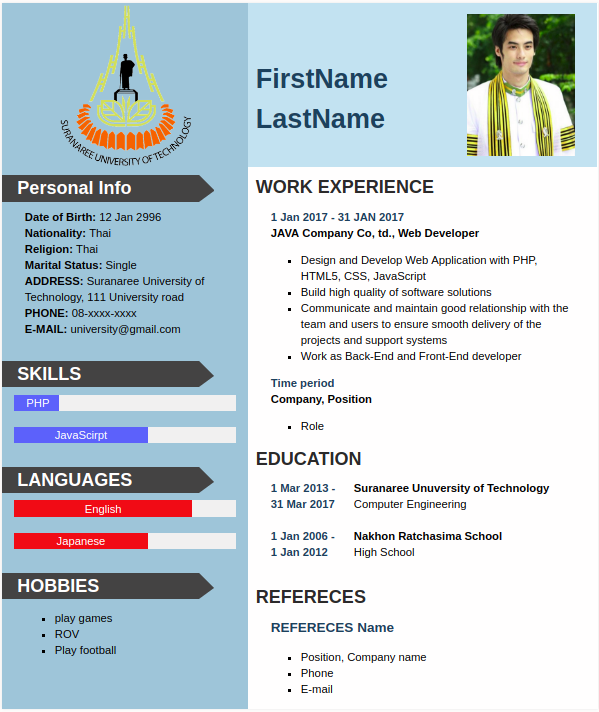
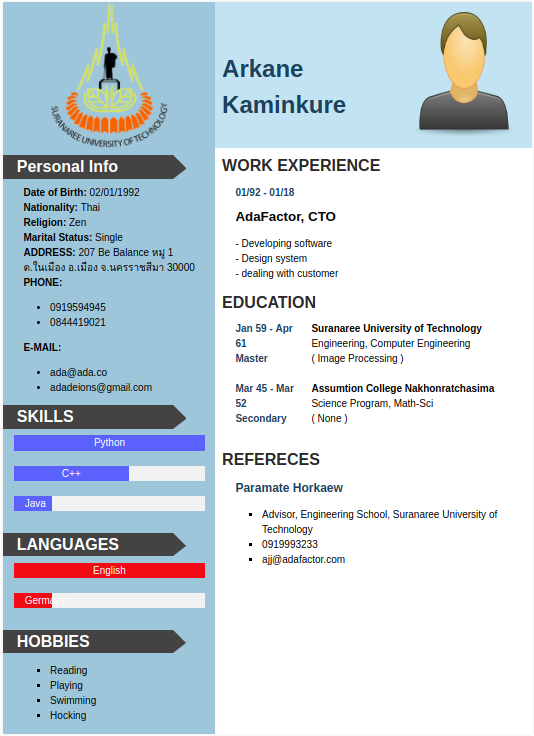
fix css template2 and update view resume

diff --git a/resumeSite/resumeApp/templates/resumeApp/resumeTemplate3.html b/resumeSite/resumeApp/templates/resumeApp/resumeTemplate3.html
@@ -14,7 +14,7 @@
             <div id="bg-left" class="col-left">
                 <div>
                     <img class="img-logo" src="/static/images/sutLogo.png" alt=""><br>
-                    <h3 class="topic-left">Personal Info</h3>
+                    <h2 class="topic-left"><b>Personal Info</b></h2>
                     <div class="content-left">
                         <b>Date of Birth: </b>
                         <label class="info-profile">{{student.birthday}}</label><br>
@@ -26,7 +26,7 @@
                         <label class="info-profile">Single</label><br>
                         <b>ADDRESS: </b>
                         <label class="info-profile">{{student.get_address}}</label><br>
-                        <label class="text-bold">PHONE: </label>
+                        <b>PHONE: </b>
                         <ul class="content">
                             {% for phone in student.phone_no %}
                             <li>{{phone}}</li>
@@ -34,7 +34,7 @@
                             <li>No phone number</li>
                             {% endfor %}
                         </ul>
-                        <label class="text-bold">E-MAIL: </label>
+                        <b>E-MAIL: </b>
                         <ul class="content">
                             {% for e in student.email %}
                             <li>{{e}}</li>
@@ -42,9 +42,9 @@
                             <li>No Email Address</li>
                             {% endfor %}
                         </ul>
-                    </div><br>
+                    </div>
 
-                    <h3 class="topic-left">SKILLS</h3>
+                    <h2 class="topic-left"><b>SKILLS</b></h2>
                     <div class="w3-container">
                         {% for skill in student.get_skill %}
                             <div class="w3-light-grey">
@@ -55,7 +55,8 @@
                             <h4>No skills</h4>
                         {% endfor %}
                     </div>
-                    <h3 class="topic-left">LANGUAGES</h3>
+
+                    <h2 class="topic-left"><b>LANGUAGES</b></h2>
                     <div class="w3-container">
                         {% for lang in student.get_language %}
                             <div class="w3-light-grey">
@@ -65,9 +66,9 @@
                             <h4>No languages</h4>
                         {% endfor %}
 
-                    </div><br>
+                    </div>
 
-                    <h3 class="topic-left">HOBBIES</h3>
+                    <h2 class="topic-left"><b>HOBBIES</b></h2>
                     <div class="content-left">
                         <ul class="content">
                             {% for hobby in student.hobbie %}
@@ -84,7 +85,7 @@
             <div class="col-right">
                 <div class="col-container">
                     <div class="col-right">
-                        <h1>{{student.first_name}} {{student.last_name}}</h1>                        
+                        <h1><b>{{student.first_name}} {{student.last_name}}</b></h1>                        
                     </div>
                     <div class="col-left">
                         <img class="img-resume" src="/static/images/user.png" alt="">
@@ -92,7 +93,7 @@
                 </div>
 
                 <div class="col-container">
-                    <h2 class="topic-right">EDUCATION</h2>
+                    <h2 class="topic-right"><b>EDUCATION</b></h2>
                     <div class="timeline">
                         {% for edu in student.get_education %}
                             <div class="column">
@@ -113,7 +114,7 @@
                         {% endfor %}
                     </div>
 
-                    <h2 class="topic-right">WORK EXPERIENCE</h2>
+                    <h2 class="topic-right"><b>WORK EXPERIENCE</b></h2>
                     <div class="timeline">
                         {% for exp in student.get_experience %}
                             <div class="column">
@@ -131,7 +132,7 @@
                         
                     </div>
 
-                    <h2 class="topic-right">REFERECES</h2>
+                    <h2 class="topic-right"><b>REFERECES</b></h2>
                     <div class="refereces">
                         <b> {{student.reference.advisor_name}} </b>
                         <ul class="content">

diff --git a/resumeSite/resumeApp/templates/resumeApp/resumeTemplate2.html b/resumeSite/resumeApp/templates/resumeApp/resumeTemplate2.html
@@ -13,21 +13,21 @@
     <div class="page">
         <div class="w3-container">
             <!-- HEAD -->
-            <div class="col-container">
+            <div class="row">
                 <div class="col">
                     <img class="img-logo" src="/static/images/sutLogo.png" alt="">
                 </div>
                 <div class="col">
-                    <h1 class="head-name"> {{student.first_name}} {{student.last_name}}</h1>
+                    <h1 class="head-name"><b> {{student.first_name}} {{student.last_name}}</b></h1>
                 </div>
                 <div class="col">
                     <div class="w3-center"><img class="img-resume" src="/static/images/user.png" alt=""></div>                
-                </div>            
+                </div> 
             </div>
-
+                  
             <!-- CONTENT -->
-            <div class="col-container">
-                <div class="col-content-l">
+            <div class="row">
+                <div class="col m7 col-content-l">
                     <h3 class="topic"><i class="fa fa-briefcase" aria-hidden="true"></i>Work Experiece</h3>
                     <div class="col-container">
                         {% for exp in student.get_experience %}
@@ -84,7 +84,7 @@
                 </div>
 
                 <!-- RIGHT -->
-                <div class="col-content-r">
+                <div class="col m5 col-content-r">
                     <h3 class="topic"><i class="fa fa-user" aria-hidden="true"></i>Personal Info</h3>
                     <div>
                         <b>Date of Birth: </b><label>{{student.birthday}}</label><br>
@@ -108,32 +108,29 @@
                             {% endfor %}
                         </ul>
                         <b>ADDRESS: </b><label>{{student.get_address}}</label>
-                    </div><br>
+                    </div>
                     
                     <h3 class="topic"><i class="fa fa-language" aria-hidden="true"></i>Languages</h3>
                     <div class="w3-container">
                         {% for lang in student.get_language %}
-                            <div class="w3-light-grey">
+                            <div class="w3-light-grey progress-level">
                                 <div class="w3-container w3-blue w3-center" style="width:{{lang.level}}%">{{lang.name}}</div>
                             </div>
-                            <br>
                         {% empty %}
                             <h4>No languages</h4>
                         {% endfor %}      
                     </div>
-                    <br>
 
                     <h3 class="topic"><i class="fa fa-deaf" aria-hidden="true"></i>Skills</h3>
                     <div class="w3-container">
                         {% for skill in student.get_skill %}
-                            <div class="w3-light-grey">
+                            <div class="w3-light-grey progress-level">
                                 <div class="w3-container w3-blue w3-center" style="width:{{skill.level}}%">{{skill.name}}</div>
                             </div>
-                            <br> {% empty %}
+                        {% empty %}
                             <h4>No skills</h4>
                         {% endfor %}
                     </div>
-                    <br>
 
                     <h3 class="topic"><i class="fa fa-gamepad" aria-hidden="true"></i>Hobbies</h3>
                     <ul class="content">
@@ -144,7 +141,7 @@
                         {% endfor %}
                     </ul>
                 </div>
-            </div>
+            </div>    
         </div>
     </div>
 {% endblock resume_template %}

diff --git a/resumeSite/resumeApp/templates/resumeApp/index.html b/resumeSite/resumeApp/templates/resumeApp/index.html
@@ -13,7 +13,7 @@
         <div class="col-container">
             <div class="col-left">
                 <div class="card">
-                    <img class="img-views" src="https://png.icons8.com/color/200/000000/resume.png">
+                    <img class="img-views" src="https://png.icons8.com/color/150/000000/resume.png">
                     <h1>Resume</h1>
                     <a href="{% url 'resumeApp:new_doc' 'resume' %}">
                         <button class="w3-btn w3-green w3-block">New</button>
@@ -26,7 +26,7 @@
         
             <div class="col-right">
                 <div class="card">
-                    <img class="img-views" src="https://png.icons8.com/color/200/000000/overview-pages-2.png">
+                    <img class="img-views" src="https://png.icons8.com/color/150/000000/overview-pages-2.png">
                     <h1>CV Letter</h1>                
                     <a href="{% url 'resumeApp:new_doc' 'cv' %}">
                         <button class="w3-btn w3-green w3-block">New</button>

diff --git a/resumeSite/resumeApp/static/css/screens/style.css b/resumeSite/resumeApp/static/css/screens/style.css
@@ -107,13 +107,13 @@ body{
 }
 
 .img-logo {
-    width: 4em !important;
+    width: 3em !important;
     height: auto;
 }
 
 .card {
     box-shadow: 0 4px 8px 0 rgba(0, 0, 0, 0.678);
-    max-width: 350px;
+    max-width: 300px;
     margin: auto;
     text-align: center;
     color: white;
@@ -183,14 +183,14 @@ body{
 }
 
 .gallery {
-    padding: 10px;
+    padding: 10px 0px;
     width: 30%;
     height: auto;
     text-align: center;
 }
 
 .img-template {
-    width: 100%;
+    width: 80%;
     height: 61%;
 }
 

diff --git a/resumeSite/resumeApp/static/css/screens/template2_screen.css b/resumeSite/resumeApp/static/css/screens/template2_screen.css
@@ -8,6 +8,9 @@ i {
     padding-right: 10px;
 }
 
+.progress-level {
+    padding-bottom: 5px;
+}
 
 .col-container {
     display: table;
@@ -20,18 +23,12 @@ i {
 
 .col-content-l {
     padding-right: 5px;    
-    display: table-cell;
-    width: 60%;
-    height: auto;
 }
 
 .col-content-r {
     /* background-color: powderblue; */
     padding-left: 5px;
-    padding-right: 5px;
-    display: table-cell;    
-    width: 40%;
-    height: auto;    
+    padding-right: 5px;    
 }
 
 .col-education-l {

diff --git a/resumeSite/resumeApp/static/css/prints/template3_print.css b/resumeSite/resumeApp/static/css/prints/template3_print.css
@@ -41,7 +41,7 @@
     }
     
     #bg-left {
-        min-height: auto;
+        height: 297mm;
         background-color: grey;
         text-align: center;
     }
